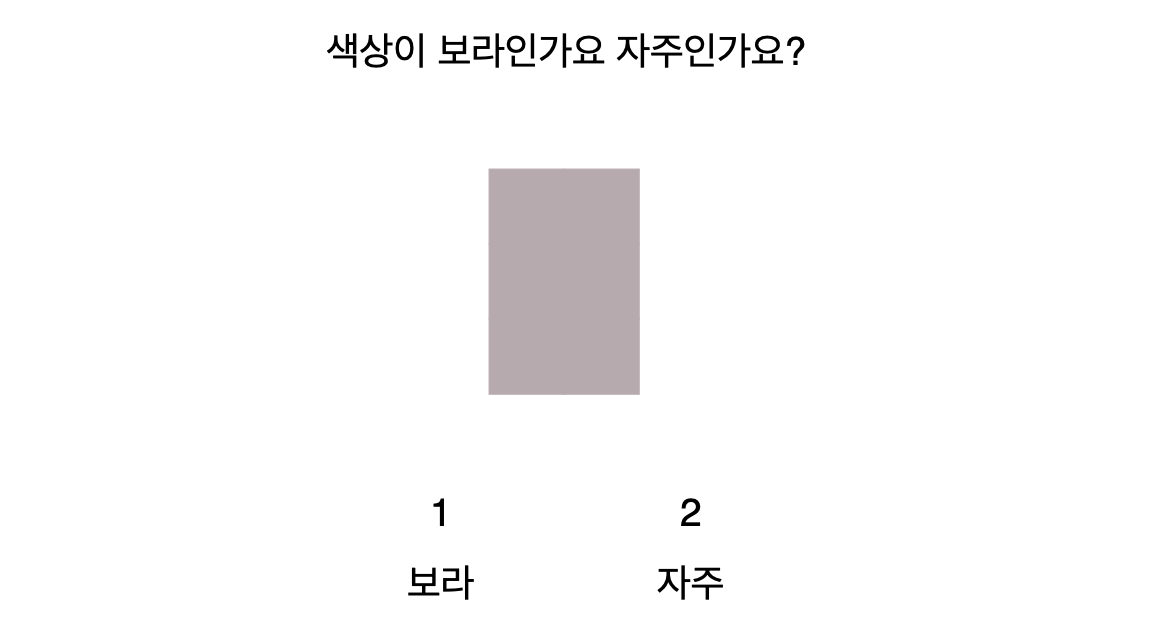
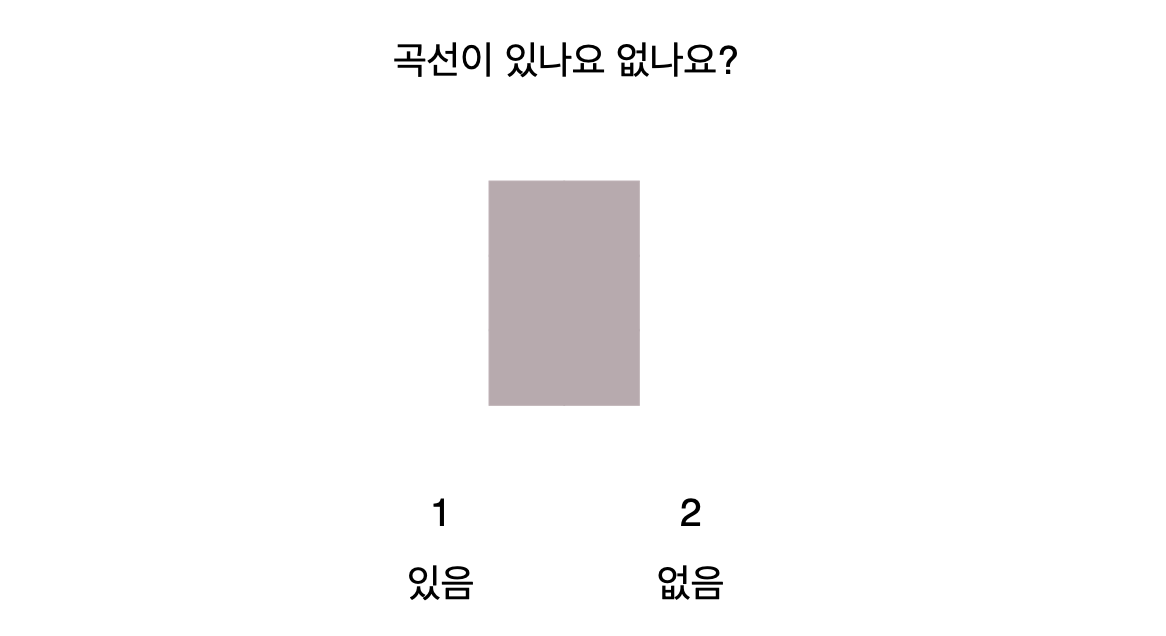
[init] 소스 변경
- 주제에 맞추어 소스 변경

diff --git a/src/components/orderTwoComp.vue b/src/components/orderTwoComp.vue
@@ -7,13 +7,13 @@
     </p>
     <br />
     <p>
-      2. 하나의 시각자극과 함께 이 자극의 색상을 묻는 질문이 3초간 제시됩니다.
+      2. 하나의 시각자극과 함께 이 자극의 선분을 묻는 질문이 3초간 제시됩니다.
     </p>
     <div>
       예시)<br />
       <img src="@/assets/sample.png" style="width: 100%; height: 100%" />
       <br />
-      피험자께서는 제시된 시각자극의 색상을 자세히 보시고 3초 내에 질문에 적합한
+      피험자께서는 제시된 시각자극의 선분을 자세히 보시고 3초 내에 질문에 적합한
       번호를 클릭해주십시오.
     </div>
     <br />

diff --git a/src/components/orderComp.vue b/src/components/orderComp.vue
@@ -3,7 +3,7 @@
     <div class="orderComp__center">
       <h2>[ 지시문 ]</h2>
       <p>
-        본 연구는 사람들이 색상을 어떻게 지각하는지 알아보기 위해
+        본 연구는 사람들이 선분(직선, 곡선)을 어떻게 지각하는지 알아보기 위해
         고안되었습니다. 질문에 대한 정답은 정해져 있지 않으니 본인이 생각하기에
         가장 적합하다고 생각하는 선택지를 골라주십시오.
       </p>

diff --git a/vite.config.ts b/vite.config.ts
@@ -11,5 +11,5 @@ export default defineConfig({
       "@": fileURLToPath(new URL("./src", import.meta.url)),
     },
   },
-  base: "/colorProject/",
+  base: "/shallowshape/",
 });
